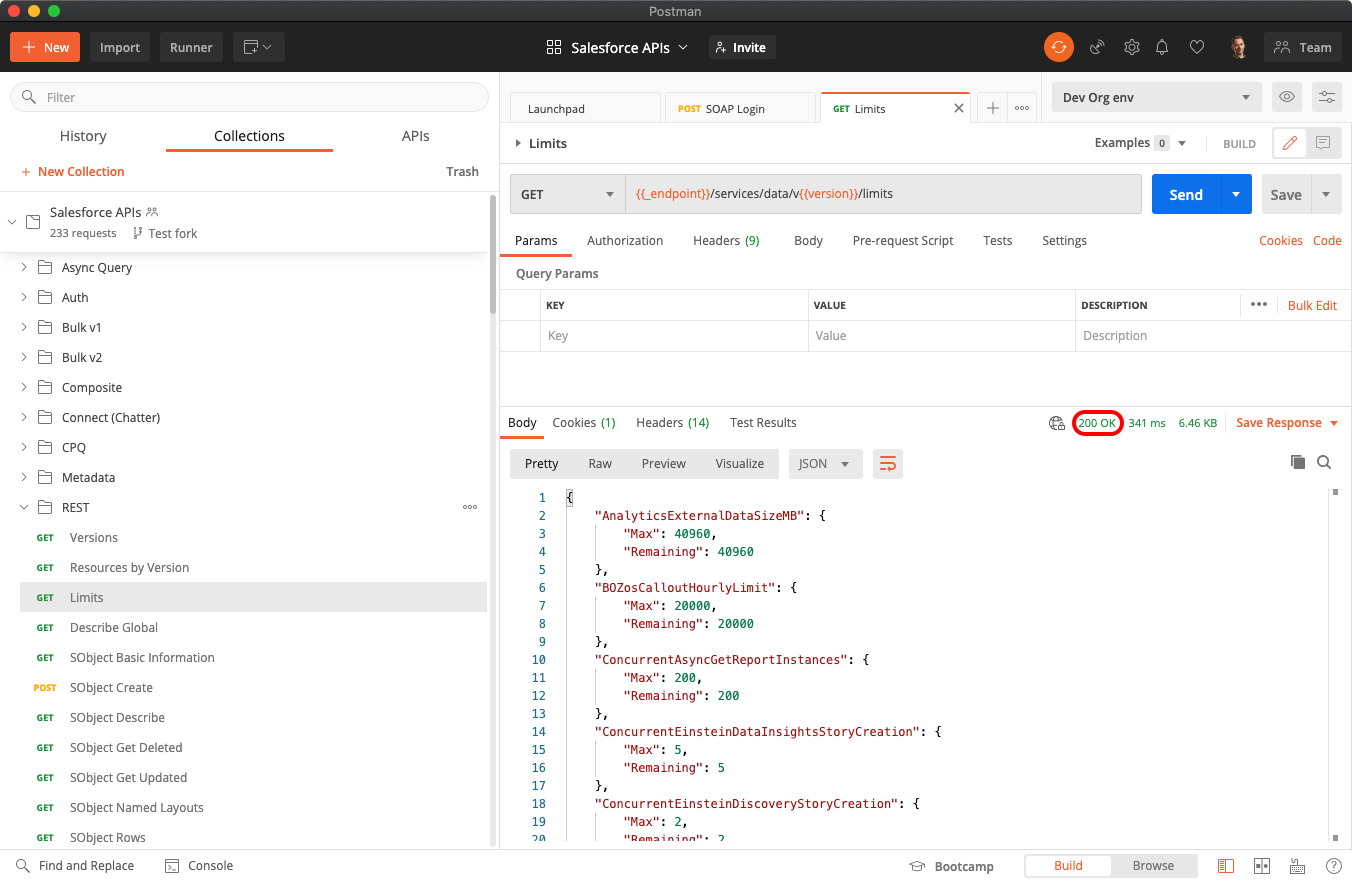
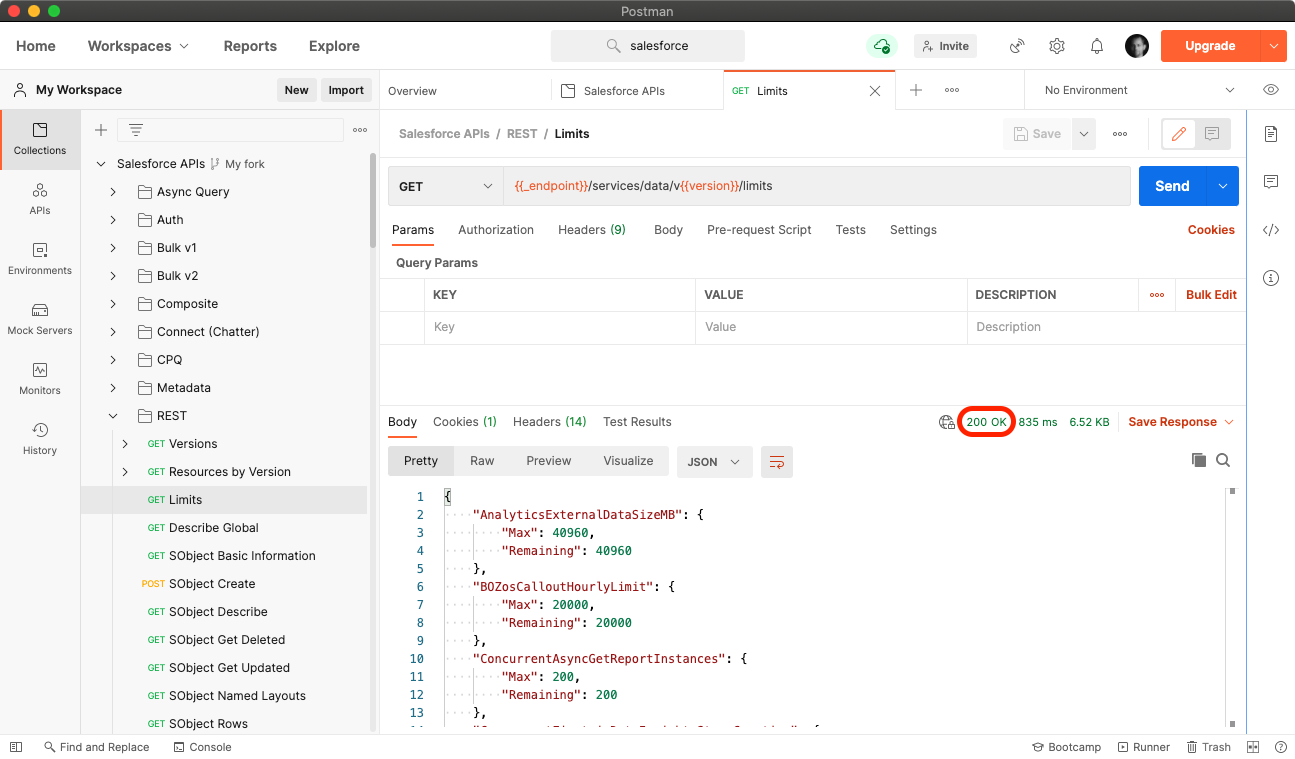
Updated instructions for Postman desktop app v8

diff --git a/install-with-app.md b/install-with-app.md
@@ -1,5 +1,7 @@
 [Back to main page](README.md)
 
+> Instructions updated for Postman desktop app v8
+
 # Installing with the Postman Desktop App
 
 This is the recommended installation option because it is the fastest to set up and doesn’t require changes on your Salesforce org.
@@ -20,32 +22,32 @@ Download and install the Postman app from [this link](https://www.postman.com/do
 
 ### Fork the Collection
 
-1. Using a browser, [sign up/in to Postman](https://identity.getpostman.com/login).
-2. Navigate to [this link](https://www.postman.com/salesforce-developers/workspace/salesforce-developers/collection/12721794-67cb9baa-e0da-4986-957e-88d8734647e2/fork) to create a fork of the collection.
-3. Enter a label for your fork (e.g.: “My fork”).
-4. Select a workspace (the default “My Workspace” workspace is fine).
-5. Click **Fork Collection**.
-6. Close the browser tab. We'll continue the installation on the Postman app.
+1. In the Postman desktop app, click on the top search bar and type **Salesforce**.
+1. Click **Salesforce Developers** under Teams.
+
+    ![Searching for Salesforce screenshot](doc-gfx/app/search-salesforce.png)
+
+1. Click the **Salesforce APIs** tile.
+1. Click **Fork**
+
+    ![Fork button screenshot](doc-gfx/app/fork-button.png)
+
+1. Enter a label for your fork (e.g.: “My fork”).
+1. Select a workspace (the default “My Workspace” workspace is fine).
+1. Click **Fork Collection**.
 
 
 ## Configure the Collection
 
-1. Open the Postman desktop app and sign in with your account. This synchronizes the collection you just forked in the web UI into the app.
-
-    ![Collection fork synchronized in app screenshot](doc-gfx/app/collection-fork-synchronized.png)
-
-1. Move your mouse over the “Salesforce APIs” collection, click on the “three dots” icon next to it and select **Edit** from the menu.
-
-    ![Edit collection screenshot](doc-gfx/app/edit-collection.png)
-
+1. Click **Salesforce APIs**
 1. Open the **Variables** tab.
-1. If needed, update the `CURRENT VALUE` of the `url` variable with:
+1. If needed, update the `CURRENT VALUE` of the `url` variable with either:
 
     - `https://test.salesforce.com` for sandboxes or Scratch orgs.
     - `https://login.salesforce.com` for production, Trailhead Playground and Developer Edition orgs.
     - your custom My Domain URL.
 
-1. Click **Update**.
+1. Click **Save**.
 
 
 ## Authenticate with Salesforce
@@ -54,7 +56,7 @@ You'll need to authenticate with Salesforce to access the APIs. Doing so grants 
 
 Repeat this step whenever your access token expires.
 
-1. Move your mouse over the “Salesforce APIs” collection, click on the “three dots” icon next to it and select **Edit** from the menu.
+1. Click **Salesforce APIs**
 1. Open the **Authorization** tab. The authorization type should be set to OAuth 2.0.
 1. Click **Get New Access Token**. This opens a browser tab with the Salesforce login screen.
 1. Log in to your Salesforce org.
@@ -68,6 +70,7 @@ Repeat this step whenever your access token expires.
 
     <details><summary>Click here for instructions on how to authorize popups.</summary>
     <p>
+    Note: these instructions are for Chrome but the steps should be similar with other browsers.
 
     1. Click the popup error in the address bar, choose to allow popups from Postman:
 
@@ -86,7 +89,7 @@ Repeat this step whenever your access token expires.
 1. Click **Use Token**.
 1. Open the **Variables** tab.
 1. Update the `CURRENT VALUE` of the `_endpoint` variable with the value that you just copied from the `instance_url` field in the access token details.
-1. Click **Update**.
+1. Click **Save**.
 
 
 ## Execute a Request
